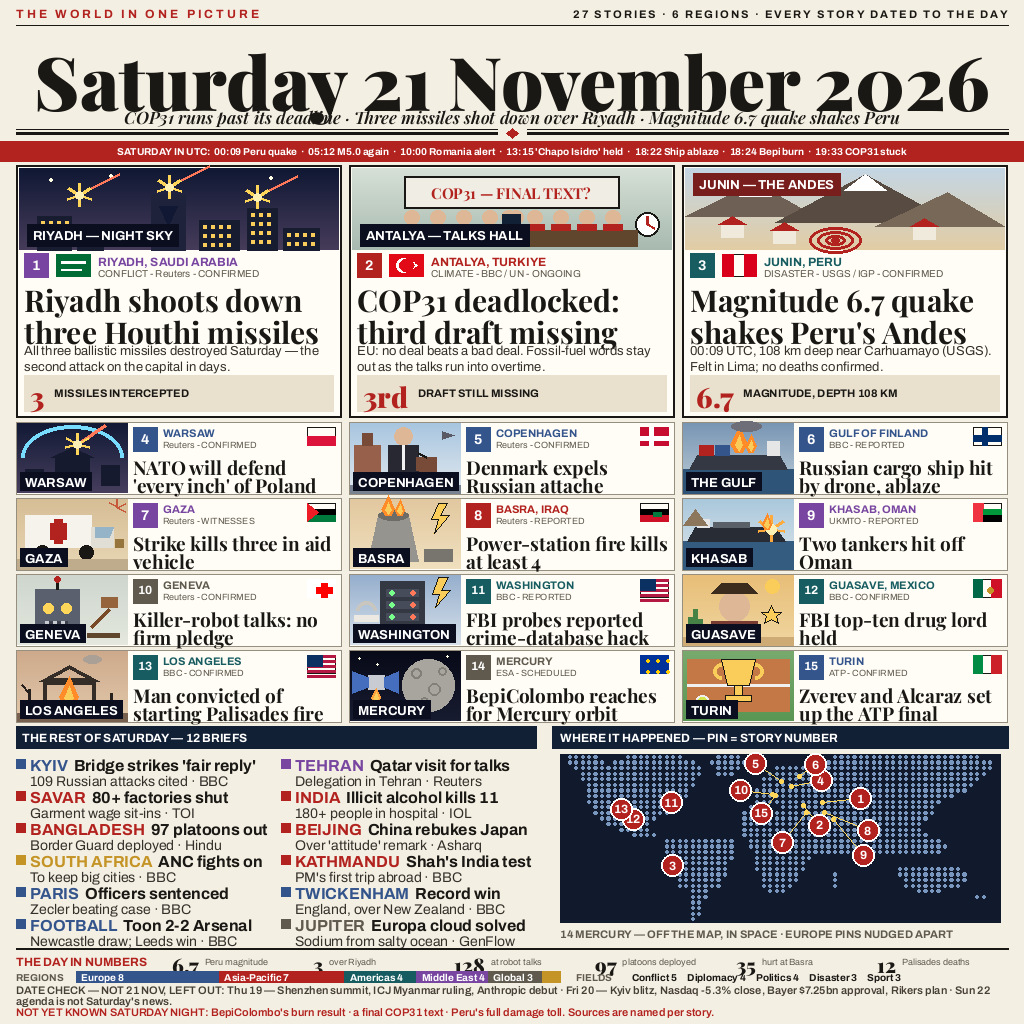
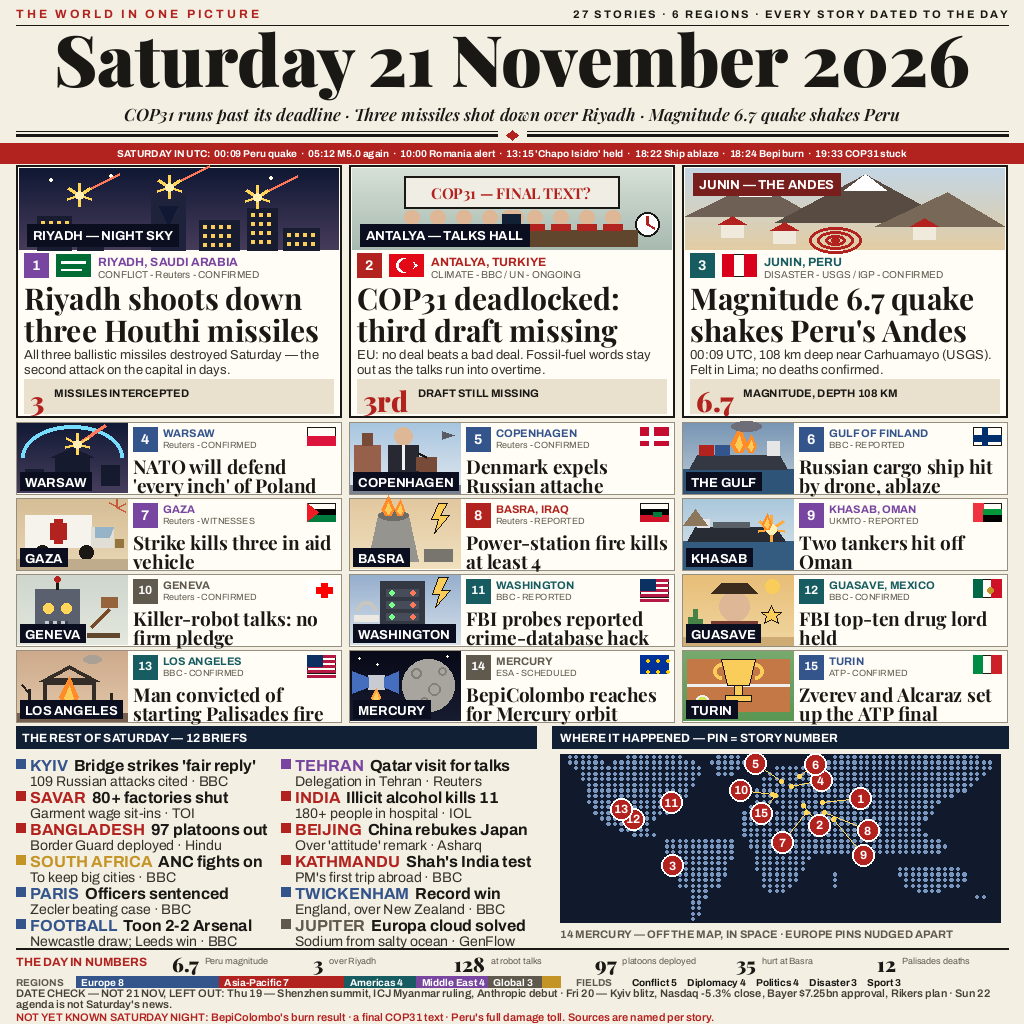
v3.5: masthead packed by measured ink bboxes (6px clear gaps date->strap->rule); full text-overlap audit in draw.py (189 boxes, 17,766 pairs, 0 intersections); deck/numbers spacing fixes

diff --git a/draw.py b/draw.py
@@ -243,6 +243,57 @@ def fit_font(text, maxw, maker, hi, lo):
 OVERFLOWS = []
 BANNER_CHECK = []
 H_CHECKS = []
+TEXT_BOXES = []
+
+
+class RecDraw:
+    """Wraps ImageDraw: records the ink bbox of every text() call."""
+
+    def __init__(self, real):
+        object.__setattr__(self, "_r", real)
+        object.__setattr__(self, "suspend", False)
+
+    def text(self, xy, s, font=None, fill=None, **kw):
+        if not self.suspend and font is not None:
+            TEXT_BOXES.append((self._r.textbbox(xy, s, font=font), s))
+        return self._r.text(xy, s, font=font, fill=fill, **kw)
+
+    def __getattr__(self, name):
+        return getattr(self._r, name)
+
+    def __setattr__(self, name, value):
+        if name in ("_r", "suspend"):
+            object.__setattr__(self, name, value)
+        else:
+            setattr(self._r, name, value)
+
+
+def audit_text_boxes():
+    n = len(TEXT_BOXES)
+    hits, near = [], []
+    for i in range(n):
+        (ax0, ay0, ax1, ay1), sa = TEXT_BOXES[i]
+        for j in range(i + 1, n):
+            (bx0, by0, bx1, by1), sb = TEXT_BOXES[j]
+            xo = min(ax1, bx1) - max(ax0, bx0)
+            yo = min(ay1, by1) - max(ay0, by0)
+            if xo > 0 and yo > 0:
+                hits.append((sa[:38], sb[:38], xo, yo))
+            elif xo > 0:
+                gap = max(by0 - ay1, ay0 - by1)
+                if gap < 3:
+                    near.append((sa[:38], sb[:38], "v", gap))
+            elif yo > 0:
+                gap = max(bx0 - ax1, ax0 - bx1)
+                if gap < 3:
+                    near.append((sa[:38], sb[:38], "h", gap))
+    print(f"TEXT-AUDIT: {n} text boxes, {n * (n - 1) // 2} pairs checked, "
+          f"{len(hits)} intersections, {len(near)} near-misses (<3px)")
+    for h in hits:
+        print("  INTERSECT:", h)
+    for h in near:
+        print("  NEAR:", h)
+    return hits, near
 
 
 def check_h(label, text, font, x_start, x_limit):
@@ -288,9 +339,14 @@ def tracked_width(d, text, font, tracking):
 
 
 def tracked(d, x, y, text, font, fill, tracking=3):
+    bb = d.textbbox((x, y), text, font=font)
+    TEXT_BOXES.append(((bb[0], bb[1], bb[2] + tracking * (len(text) - 1),
+                        bb[3]), text))
+    d.suspend = True
     for ch in text:
         d.text((x, y), ch, font=font, fill=fill)
         x += d.textlength(ch, font=font) + tracking
+    d.suspend = False
     return x - tracking
 
 
@@ -538,7 +594,7 @@ def tally_bar(d, y, counts, total, x0=76, x1=560, hgt=13):
 
 def main():
     img = Image.new("RGB", (W, H), PAPER)
-    d = ImageDraw.Draw(img)
+    d = RecDraw(ImageDraw.Draw(img))
     stories = all_stories()
     total = len(stories)
     reg_counts, field_counts = {}, {}
@@ -562,25 +618,48 @@ def main():
         (16 + tracked_width(d, eyebrow, SANS_B(12), 3))
         - (W - 16 - cw_counts), 1)))
     d.line([16, 25, W - 16, 25], fill=INK, width=1)
-    date_font = fit_font("Saturday 21 November 2026", 964, SERIF_BLACK, 84, 40)
-    center(d, 30, "Saturday 21 November 2026", date_font, INK)
-    check_h("masthead date", "Saturday 21 November 2026", date_font,
-            W // 2 - d.textlength("Saturday 21 November 2026",
-                                  font=date_font) / 2, W - 30)
     strap = ("COP31 runs past its deadline \u00b7 Three missiles shot down "
              "over Riyadh \u00b7 Magnitude " + FIG["peru_quake_magnitude"]
              + " quake shakes Peru")
-    center(d, 105, strap, SERIF_IT(17), INK)
+    # v3.5: pack date -> strap -> rules by MEASURED ink bboxes, with a
+    # guaranteed >=6px clear gap at each step (Ahmad: no descender of
+    # the date may touch the strap; no strap descender may touch the
+    # rule). Shrink the date until the whole stack fits above y=163.
+    sbb = d.textbbox((0, 0), strap, font=SERIF_IT(17))
+    for S in range(78, 59, -1):
+        fnt = SERIF_BLACK(S)
+        if d.textlength("Saturday 21 November 2026", font=fnt) > 964:
+            continue
+        bb = d.textbbox((0, 0), "Saturday 21 November 2026", font=fnt)
+        date_y = 31 - bb[1]
+        date_ink_bot = date_y + bb[3]
+        strap_y = date_ink_bot + 6 - sbb[1]
+        strap_ink_bot = strap_y + sbb[3]
+        rule1 = strap_ink_bot + 6
+        if rule1 + 4 + 8 + 20 <= 163:
+            break
+    date_font = fnt
+    print(f"MASTHEAD-PACK: date {S}px width "
+          f"{round(d.textlength('Saturday 21 November 2026', font=fnt))}px; "
+          f"date ink bottom {date_ink_bot}, strap ink top "
+          f"{strap_y + sbb[1]} -> gap {strap_y + sbb[1] - date_ink_bot}px; "
+          f"strap ink bottom {strap_ink_bot}, rule at {rule1} "
+          f"-> gap {rule1 - strap_ink_bot}px")
+    center(d, date_y, "Saturday 21 November 2026", date_font, INK)
+    check_h("masthead date", "Saturday 21 November 2026", date_font,
+            W // 2 - d.textlength("Saturday 21 November 2026",
+                                  font=date_font) / 2, W - 30)
+    center(d, strap_y, strap, SERIF_IT(17), INK)
     check_h("summary strap", strap, SERIF_IT(17),
             W // 2 - d.textlength(strap, font=SERIF_IT(17)) / 2, W - 16)
-    d.line([16, 129, W - 16, 129], fill=INK, width=1)
-    d.line([16, 133, W - 16, 133], fill=INK, width=3)
-    d.rectangle([W // 2 - 14, 127, W // 2 + 14, 139], fill=PAPER)
-    d.polygon([(W // 2, 128), (W // 2 + 6, 133), (W // 2, 138),
-               (W // 2 - 6, 133)], fill=RED)
+    d.line([16, rule1, W - 16, rule1], fill=INK, width=1)
+    d.line([16, rule1 + 4, W - 16, rule1 + 4], fill=INK, width=3)
+    d.rectangle([W // 2 - 14, rule1 - 2, W // 2 + 14, rule1 + 10], fill=PAPER)
+    d.polygon([(W // 2, rule1 - 1), (W // 2 + 6, rule1 + 4),
+               (W // 2, rule1 + 9), (W // 2 - 6, rule1 + 4)], fill=RED)
     tl = "SATURDAY IN UTC:  " + "  \u00b7  ".join(f"{t} {l}" for t, l in TIMELINE)
-    d.rectangle([0, 141, W, 161], fill=RED)
-    center(d, 146, tl, SANS_B(10), (255, 255, 255))
+    d.rectangle([0, rule1 + 12, W, rule1 + 32], fill=RED)
+    center(d, rule1 + 17, tl, SANS_B(10), (255, 255, 255))
     check_h("timeline", tl, SANS_B(10),
             W // 2 - d.textlength(tl, font=SANS_B(10)) / 2, W - 8)
 
@@ -599,15 +678,15 @@ def main():
         d.text((x + 82, yy + 2), place, font=SANS_B(12), fill=REGIONS[region][1])
         check_h(f"hero{i+1} place", place, SANS_B(12), x + 82, x + hw - 8)
         meta = f"{field.upper()} - {src} - {SURE_LABEL[sure]}"
-        d.text((x + 82, yy + 15), meta, font=SANS(10), fill=MUTE)
+        d.text((x + 82, yy + 16), meta, font=SANS(10), fill=MUTE)
         check_h(f"hero{i+1} meta", meta, SANS(10), x + 82, x + hw - 8)
-        yy += 26
+        yy += 24
         yy = text_block(d, x + 8, yy, head, SERIF(30), INK, hw - 16, 32,
                         max_lines=2, tag=f"hero{i}")
-        text_block(d, x + 8, yy, deck, SANS(13), (52, 48, 42), hw - 16, 16,
+        text_block(d, x + 8, yy + 6, deck, SANS(13), (52, 48, 42), hw - 16, 15,
                    max_lines=2, tag=f"herodeck{i}")
-        d.rectangle([x + 8, hy + hh - 42, x + hw - 8, hy + hh - 6], fill=PAPER_DK)
-        d.text((x + 14, hy + hh - 40), big, font=SERIF_BLACK(28), fill=RED)
+        d.rectangle([x + 8, hy + hh - 38, x + hw - 8, hy + hh - 4], fill=PAPER_DK)
+        d.text((x + 14, hy + hh - 36), big, font=SERIF_BLACK(28), fill=RED)
         d.text((x + 14 + d.textlength(big, font=SERIF_BLACK(28)) + 10,
                 hy + hh - 30), biglab, font=SANS_B(11), fill=INK)
 
@@ -630,7 +709,7 @@ def main():
         cmeta = f"{src} - {SURE_LABEL[sure]}"
         d.text((tx + 30, yy0 + 18), cmeta, font=SANS(9), fill=MUTE)
         check_h(f"card{i+4} meta", cmeta, SANS(9), tx + 30, x + chw - 6)
-        text_block(d, tx, yy0 + 32, head, SERIF(19), INK, chw - 123, 18,
+        text_block(d, tx, yy0 + 31, head, SERIF(19), INK, chw - 123, 19,
                    max_lines=2, tag=f"card{i}")
     by = cy + 4 * (chh + 4) - 4 + 4
 
@@ -699,12 +778,12 @@ def main():
     d.text((16, by + 7), "THE DAY IN NUMBERS", font=SANS_B(12), fill=RED)
     nx = 172
     for num, lab in NUMBERS:
-        d.text((nx, by + 3), num, font=SERIF_BLACK(20), fill=INK)
+        d.text((nx, by + 2), num, font=SERIF_BLACK(20), fill=INK)
         lx = nx + d.textlength(num, font=SERIF_BLACK(20)) + 6
-        d.text((lx, by + 9), lab, font=SANS(9), fill=MUTE)
+        d.text((lx, by + 8), lab, font=SANS(9), fill=MUTE)
         check_h(f"numbers label '{lab}'", lab, SANS(9), lx, nx + 139)
         nx += 141
-    by += 23
+    by += 28
     d.text((16, by + 1), "REGIONS", font=SANS_B(10), fill=MUTE)
     tally_bar(d, by, reg_counts, total, x0=76, x1=560, hgt=11)
     d.text((576, by + 1), "FIELDS", font=SANS_B(10), fill=MUTE)
@@ -713,7 +792,7 @@ def main():
     for name, n in top_fields:
         d.text((fx, by + 1), f"{name} {n}", font=SANS_B(10), fill=INK)
         fx += d.textlength(f"{name} {n}", font=SANS_B(10)) + 10
-    by += 13
+    by += 11
 
     # ------------------------------------------------- date check + not yet
     dc = ("DATE CHECK — NOT 21 NOV, LEFT OUT: Thu 19 — Shenzhen summit, ICJ Myanmar "
@@ -723,7 +802,7 @@ def main():
                     max_lines=2, tag="datecheck")
     ny = ("NOT YET KNOWN SATURDAY NIGHT: BepiColombo's burn result · a final COP31 "
           "text · Peru's full damage toll. Sources are named per story.")
-    text_block(d, 16, yy, ny, SANS_SB(11), RED, W - 32, 12,
+    text_block(d, 16, yy + 2, ny, SANS_SB(11), RED, W - 32, 12,
                max_lines=1, tag="notyet")
 
     print(f"H-CHECKS: {len(H_CHECKS)} measured, "
@@ -737,6 +816,7 @@ def main():
     if OVERFLOWS:
         print("OVERFLOWS:", *OVERFLOWS, sep="\n  ")
     out = HERE / "entry.png"
+    audit_text_boxes()
     img.save(out, optimize=True)
     print("wrote", out, out.stat().st_size, "bytes; stories:", total,
           "; regions:", reg_counts, "; fields:", field_counts)
